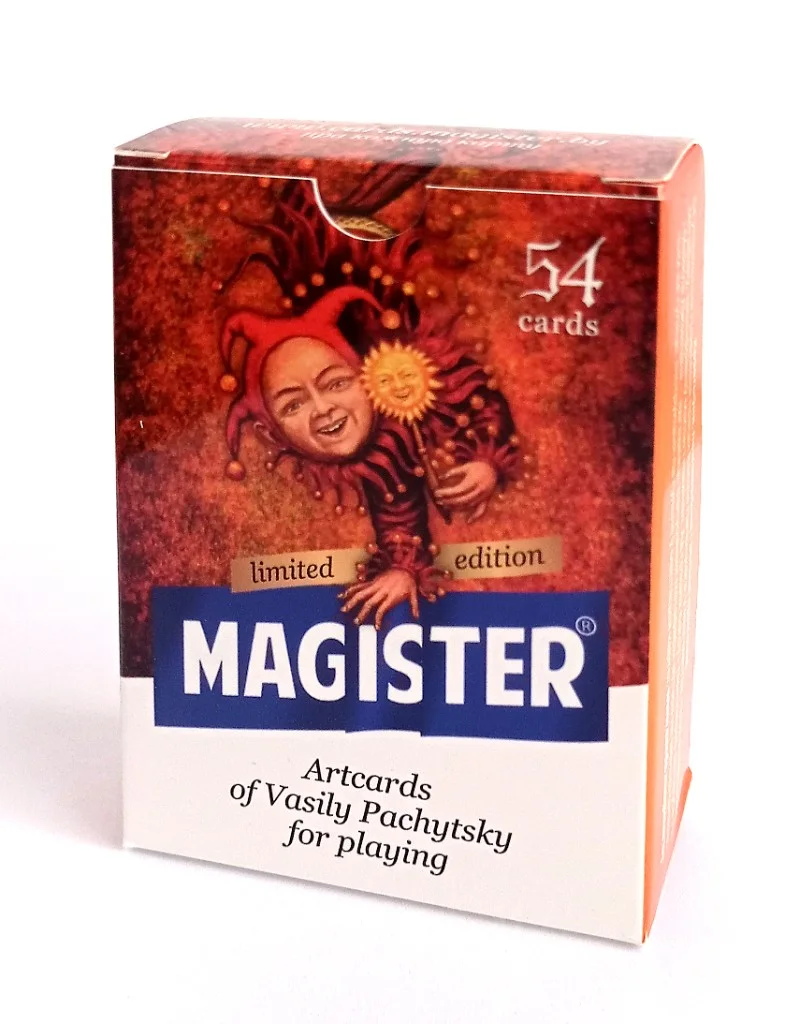
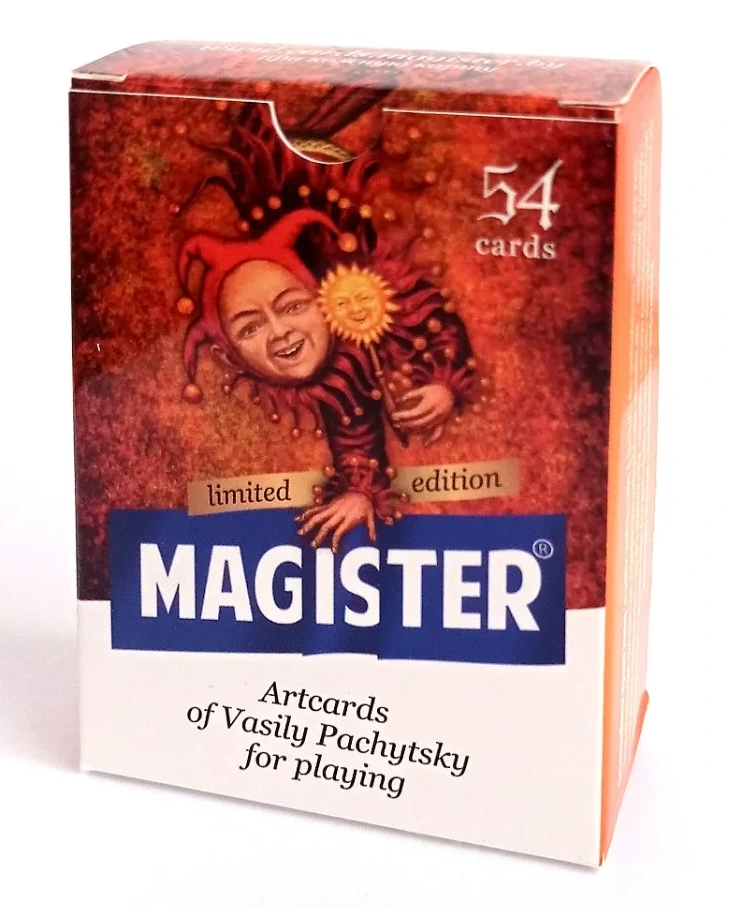
Replace deck pack product shots with updated portrait renders.
New XL and standard assets and intrinsic dimensions across shop and hero references.

diff --git a/src/lib/artifacts.ts b/src/lib/artifacts.ts
@@ -10,7 +10,7 @@ export type ArtifactMedia = { image: string; width: number; height: number };
 
 /** Homepage / artifacts grid thumbs. */
 export const ARTIFACT_MEDIA: Record<ArtifactSlug, ArtifactMedia> = {
-  deck: { image: '/media/pack.png', width: 1536, height: 1024 },
+  deck: { image: '/media/pack.png', width: 656, height: 800 },
   apparel: { image: '/media/partner-apparel.jpg', width: 764, height: 1024 },
   prints: { image: '/media/partner-print.jpg', width: 704, height: 1024 },
   album: { image: '/media/album-cover.jpg', width: 724, height: 1024 },
